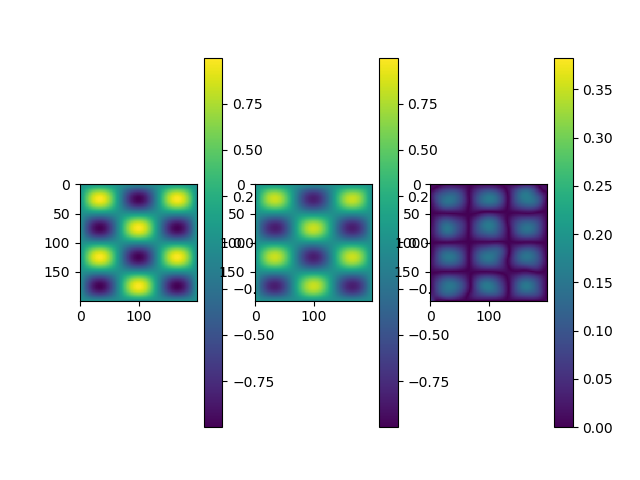
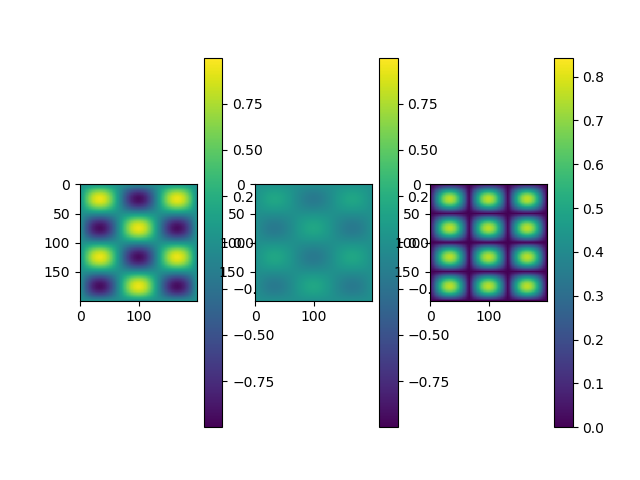
setting

diff --git a/main_diffusion.py b/main_diffusion.py
@@ -215,7 +215,7 @@ def get_config1(args):
     #cfg['layers'] = [2, 50, 50, 50, cfg['q']+1]
     cfg['layers'] = [2, 50, 50, 50, 50, 50, cfg['q']+1]
     #cfg['mode'] = 'fst'
-    cfg['mode'] = 'ctn'
+    cfg['mode'] = args.mode
 
     cfg['N0'] = 25000
     cfg['Nb'] = 20000
@@ -252,8 +252,8 @@ def get_config2(args):
     cfg['epoch'] = args.epoch
 
     #scheduler = scheduler.step2
-    sch_function = scheduler.step([2000, 4000], [1e-3, 1e-4, 1e-5])
-    sch_function = scheduler.const(1e-4)
+    sch_function = scheduler.step([5000, 14000], [1e-3, 1e-4, 1e-5])
+    #sch_function = scheduler.const(1e-4)
     #sch_function = scheduler.const(1e-5)
     #sch_function = scheduler.const(1e-2)
     #cfg['optimizer'] = optimizers.SGD(learning_rate=scheduler(0), momentum=0.9)
@@ -266,14 +266,14 @@ def get_config2(args):
     #cfg['layers'] = [2, 50, 50, cfg['q']+1]
     #cfg['layers'] = [2, 50, 50, 50, cfg['q']+1]
     cfg['layers'] = [2, 50, 50, 50, 50, 50, cfg['q']+1]
-    cfg['mode'] = 'fst'
+    cfg['mode'] = args.mode
     #cfg['mode'] = 'ctn'
 
     cfg['N0'] = 200
     cfg['Nb'] = 200
     #cfg['dt'] = 1e-3
     #cfg['dt'] = 1e-4
-    cfg['dt'] = 1e-5
+    cfg['dt'] = 1e-4
     #cfg['q'] = 500
     #cfg['q'] = 20
     
@@ -299,7 +299,7 @@ if __name__ == '__main__':
     
 
     parser = argparse.ArgumentParser(description='solve 2d diffusion using neural netwrok')
-    parser.add_argument('--epoch', '-EPOCH', type=int, default=20000, help='epoch')
+    parser.add_argument('--epoch', '-EPOCH', type=int, default=60000, help='epoch')
     parser.add_argument('--job', '-J', type=str, default='evaluate', help='what job are you going to do? train or evaluate')
     parser.add_argument('--mode', '-M', type=str, default='ctn', help='train from previous result')
     args = parser.parse_args()
@@ -317,6 +317,7 @@ if __name__ == '__main__':
             #cfg['network'] = network.get_linear2(cfg['layers'])
         elif cfg['mode'] == 'ctn':
             cfg['network'] = keras.models.load_model(cfg['path2save'] + cfg['fname_model'])
+            pass
         cfg['network'].summary()
 
         train(cfg)

diff --git a/network.py b/network.py
@@ -8,6 +8,35 @@ from tensorflow.keras.layers import Dense
 
 
 
+def get_linear0(layer_list):
+    num_layers = len(layer_list) 
+    model = tf.keras.Sequential()
+
+    xavier_stddev = np.sqrt(2/(layer_list[0] + layer_list[1]))
+    init = tf.keras.initializers.TruncatedNormal(mean=0.0, stddev=xavier_stddev)
+    #init = 'truncated_normal'
+    model.add(tf.keras.layers.Dense(layer_list[1], \
+                                    input_shape = (layer_list[0],),\
+                                    activation = 'tanh',\
+                                    kernel_initializer=init))
+
+    for l in range(1, num_layers - 2):
+        xavier_stddev = np.sqrt(2/(layer_list[l] + layer_list[l+1]))
+        init = tf.keras.initializers.TruncatedNormal(mean=0.0, stddev=xavier_stddev)
+        model.add(tf.keras.layers.Dense(layer_list[l+1], \
+                                        activation='tanh',\
+                                        kernel_initializer=init))
+
+    xavier_stddev = np.sqrt(2/(layer_list[-2] + layer_list[-1]))
+    init = tf.keras.initializers.TruncatedNormal(mean=0.0, stddev=xavier_stddev)
+    model.add(tf.keras.layers.Dense(layer_list[-1], \
+                                    activation=None,\
+                                    kernel_initializer=init))
+    return model
+
+
+
+
 def get_linear1(layer_list):
     num_layers = len(layer_list) 
     model = tf.keras.Sequential()
@@ -36,6 +65,7 @@ def get_linear1(layer_list):
     model.add(tf.keras.layers.Lambda(lambda x: x * 5.))
     model.summary()
     return model
+
 
 
 
